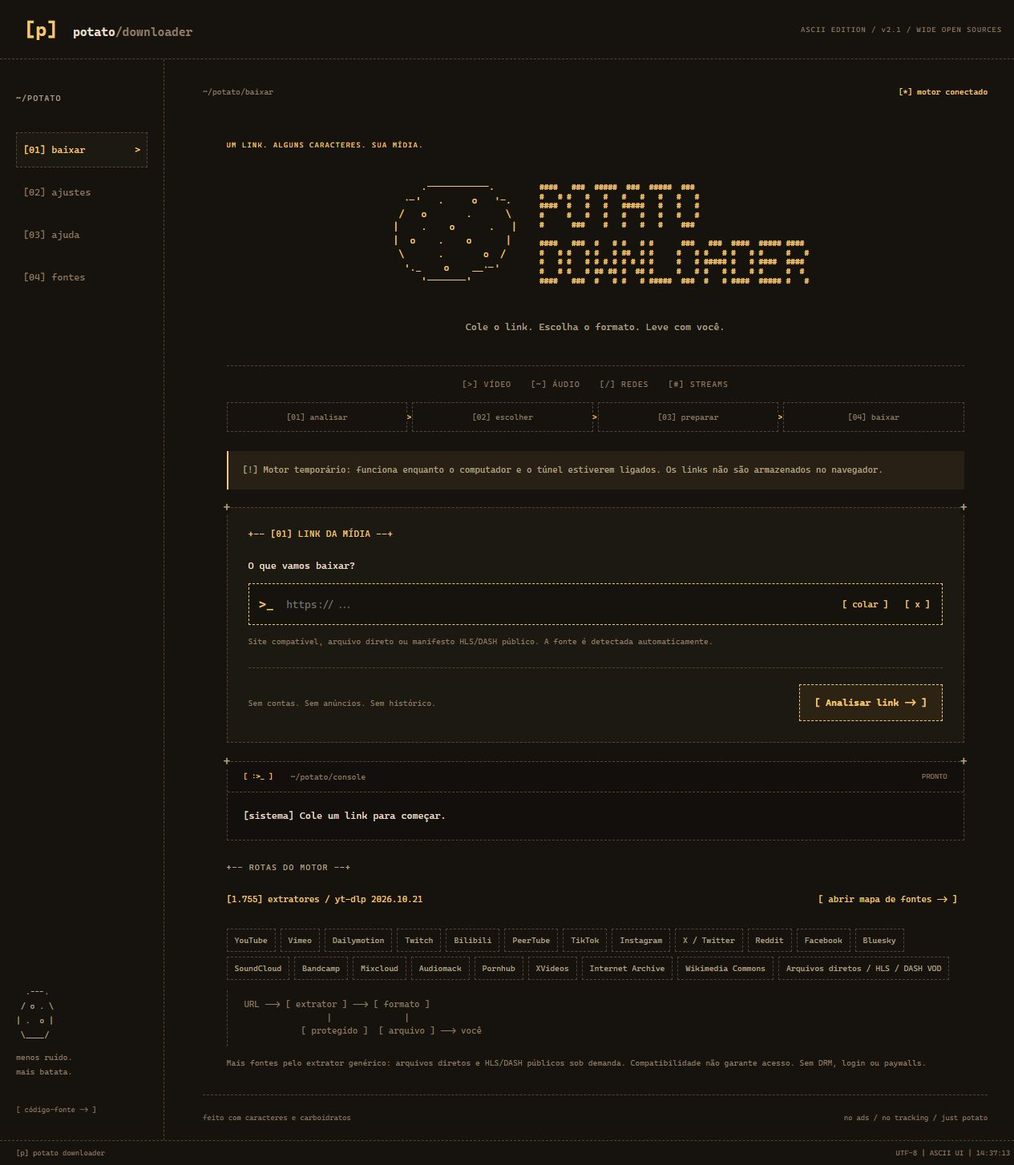
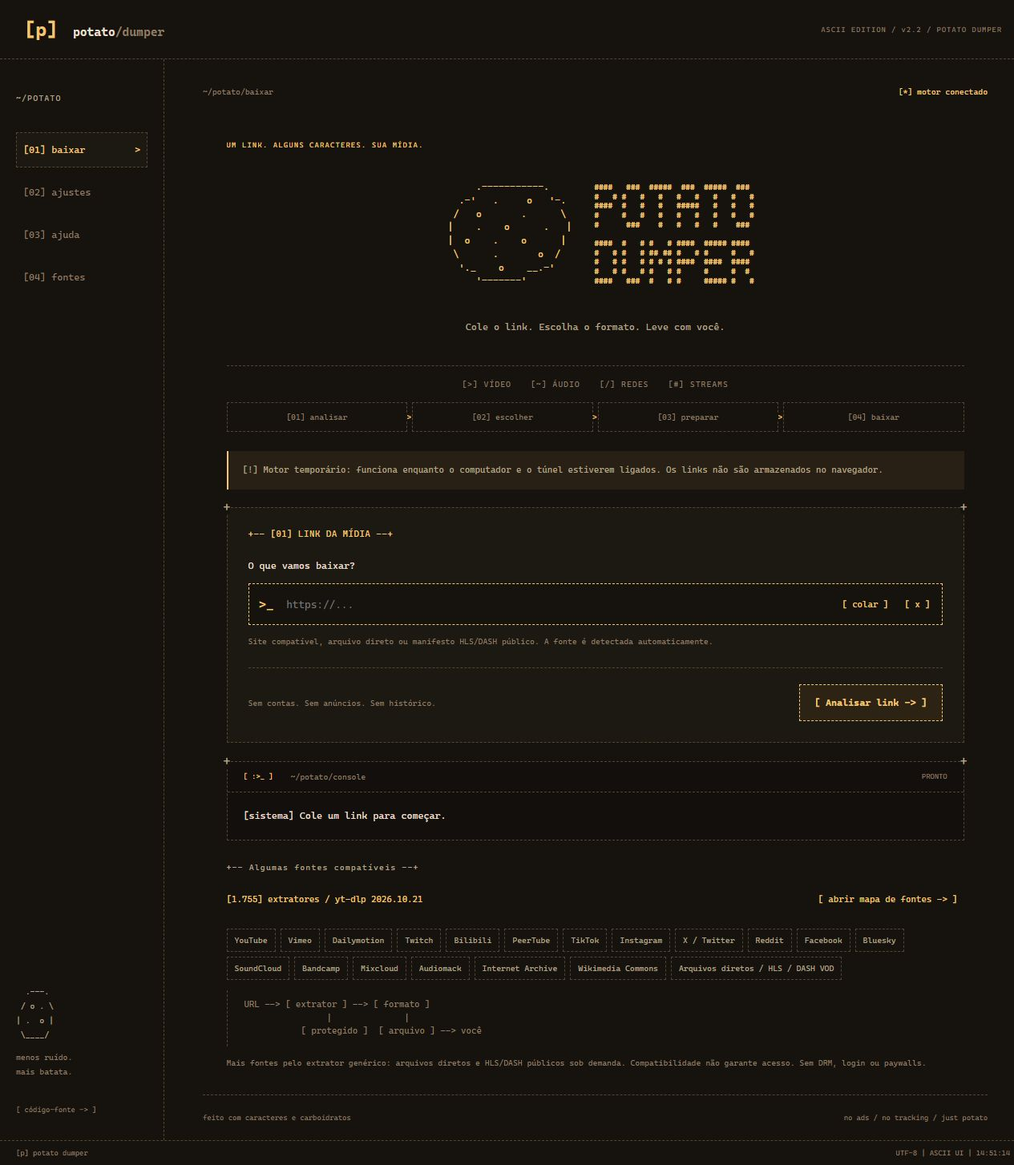
Rename product to Potato Dumper and curate public source examples without restricting extraction

diff --git a/index.html b/index.html
@@ -1,7 +1,7 @@
 <!doctype html>
-<html lang="pt-BR"><head><meta charset="UTF-8"><meta name="viewport" content="width=device-width,initial-scale=1"><meta name="theme-color" content="#16130f"><meta name="description" content="Potato Downloader. Cole o link, escolha o formato e baixe sua mídia em uma interface ASCII."><title>Potato Downloader</title><link rel="icon" href="data:,"></head><body>
+<html lang="pt-BR"><head><meta charset="UTF-8"><meta name="viewport" content="width=device-width,initial-scale=1"><meta name="theme-color" content="#16130f"><meta name="description" content="Potato Dumper. Cole o link, escolha o formato e baixe sua mídia em uma interface ASCII."><title>Potato Dumper</title><link rel="icon" href="data:,"></head><body>
 <a class="skip" href="#main">Pular para o conteúdo</a>
-<header><a class="brand" href="#baixar"><span aria-hidden="true">[p]</span> potato<span class="muted">/downloader</span></a><span class="edition">ASCII EDITION / v2.1 / WIDE OPEN SOURCES</span></header>
+<header><a class="brand" href="#baixar"><span aria-hidden="true">[p]</span> potato<span class="muted">/dumper</span></a><span class="edition">ASCII EDITION / v2.2 / POTATO DUMPER</span></header>
 <div class="layout"><aside><p class="micro">~/POTATO</p><nav aria-label="Principal"><a href="#baixar" data-page="baixar">[01] baixar <span aria-hidden="true">&gt;</span></a><a href="#ajustes" data-page="ajustes">[02] ajustes <span aria-hidden="true">&gt;</span></a><a href="#ajuda" data-page="ajuda">[03] ajuda <span aria-hidden="true">&gt;</span></a><a href="#fontes" data-page="fontes">[04] fontes <span aria-hidden="true">&gt;</span></a></nav><div class="side-note"><pre aria-hidden="true">  .---.
  / o . \
 | .  o |
@@ -14,13 +14,13 @@
   |  o    .    o      |
    \      .       o  /
     '._    o    __.-'
-       '-------'</pre><h1><span class="sr-only">Potato Downloader</span><pre id="ascii-title" aria-hidden="true"></pre><span class="compact-title" aria-hidden="true">[ POTATO ]<br>DOWNLOADER_</span></h1></div><p class="tagline">Cole o link. Escolha o formato. Leve com você.</p></div>
+       '-------'</pre><h1><span class="sr-only">Potato Dumper</span><pre id="ascii-title" aria-hidden="true"></pre><span class="compact-title" aria-hidden="true">[ POTATO ]<br>DUMPER_</span></h1></div><p class="tagline">Cole o link. Escolha o formato. Leve com você.</p></div>
 <div class="signal-rack" aria-hidden="true"><span>[&gt;] VÍDEO</span><span>[~] ÁUDIO</span><span>[/] REDES</span><span>[#] STREAMS</span></div><ol class="pipeline" id="pipeline" aria-label="Etapas do download"><li data-step="1"><span aria-hidden="true">[01]</span> analisar</li><li data-step="2"><span aria-hidden="true">[02]</span> escolher</li><li data-step="3"><span aria-hidden="true">[03]</span> preparar</li><li data-step="4"><span aria-hidden="true">[04]</span> baixar</li></ol>
 <div id="service-notice" class="notice" role="status" hidden></div>
 <section class="frame"><h2 class="frame-title">+-- [01] LINK DA MÍDIA --+</h2><form id="analyze-form" novalidate><label for="media-url">O que vamos baixar?</label><div class="url-row"><span aria-hidden="true">&gt;_</span><input id="media-url" name="url" type="url" inputmode="url" autocomplete="off" spellcheck="false" placeholder="https://..." aria-describedby="url-hint url-error"><button type="button" id="paste" class="quiet">[ colar ]</button><button type="button" id="clear" class="quiet" aria-label="Limpar link">[ x ]</button></div><p id="url-hint" class="hint">Site compatível, arquivo direto ou manifesto HLS/DASH público. A fonte é detectada automaticamente.</p><p id="url-error" class="error" role="alert" hidden></p><div class="form-bottom"><span class="hint">Sem contas. Sem anúncios. Sem histórico.</span><button class="primary" id="analyze-button" type="submit">[ Analisar link -&gt; ]</button></div></form></section>
 <section class="frame results-section" id="media-panel" aria-labelledby="media-heading" hidden><h2 class="frame-title" id="media-heading">+-- [02] ESCOLHA SEU ARQUIVO --+</h2><label for="media-item">Mídias encontradas</label><select id="media-item"></select><h3 id="media-title"></h3><p id="media-metadata" class="hint"></p><fieldset id="modes"><legend>Modo</legend><label><input type="radio" name="mode" value="auto" checked><span>[ automático ]</span></label><label><input type="radio" name="mode" value="video"><span>[ vídeo ]</span></label><label><input type="radio" name="mode" value="audio"><span>[ só áudio ]</span></label></fieldset><div class="options-grid"><label>Qualidade e formato de origem<select id="format"></select></label><label id="conversion-label">Formato de saída<select id="conversion"><option value="original">original / sem conversão</option><option value="mp3">MP3 / converter</option><option value="opus">Opus / converter</option><option value="wav">WAV / converter</option></select></label></div><p class="hint" id="size-hint"></p><p class="hint">Opções extraídas desta mídia. A origem pode mudar; links de análise expiram em 15 minutos.</p><div class="form-bottom"><button class="quiet" id="new-download">[ novo link ]</button><button class="primary" id="prepare">[ Preparar download -&gt; ]</button></div></section>
 <section class="frame console" aria-labelledby="console-title"><div class="console-head"><h2 id="console-title">~/potato/console</h2><span id="state-label">PRONTO</span></div><div class="console-body"><div id="indicator" aria-hidden="true" hidden>[ &gt;........................... ]</div><p id="status" role="status" aria-live="polite">[sistema] Cole um link para começar.</p><p id="transfer-note" class="hint" hidden></p><div class="console-actions"><button class="quiet" id="cancel" hidden>[ cancelar ]</button><a class="primary" id="save-file" hidden>[ Baixar arquivo -&gt; ]</a><button class="quiet" id="retry" hidden>[ tentar novamente ]</button></div></div></section>
-<section class="platforms"><h2 class="micro">+-- ROTAS DO MOTOR --+</h2><div class="engine-strip"><span id="engine-summary">[?] consultando catálogo instalado</span><a href="#fontes" class="quiet">[ abrir mapa de fontes -&gt; ]</a></div><p id="platform-list" class="hint">Conecte o motor para consultar a lista.</p><pre class="wire-art" aria-hidden="true">  URL --&gt; [ extrator ] --&gt; [ formato ]
+<section class="platforms"><h2 class="micro">+-- Algumas fontes compatíveis --+</h2><div class="engine-strip"><span id="engine-summary">[?] consultando catálogo instalado</span><a href="#fontes" class="quiet">[ abrir mapa de fontes -&gt; ]</a></div><p id="platform-list" class="hint">Conecte o motor para consultar a lista.</p><pre class="wire-art" aria-hidden="true">  URL --&gt; [ extrator ] --&gt; [ formato ]
                   |              |
              [ protegido ]  [ arquivo ] --&gt; você</pre><p class="hint">Mais fontes pelo extrator genérico: arquivos diretos e HLS/DASH públicos sob demanda. Compatibilidade não garante acesso. Sem DRM, login ou paywalls.</p></section></section>
 <section id="fontes" class="page secondary" hidden><p class="micro accent">[04] / EXTRACTORS.MAP</p><h1>Uma batata.<br>Muitos caminhos<span class="accent">_</span></h1><pre class="source-map" aria-hidden="true">                 .--------.
@@ -28,7 +28,7 @@
    AUDIO -------&gt;| POTATO |---&gt; [a] áudio
    SOCIAL ------&gt;|  /&gt;_   |---&gt; [#] formatos
    HTTP/HLS ---&gt; |        |---&gt; [ ] arquivo
-                 '--------'</pre><p class="intro-text">O endereço escolhe o extrator. Você escolhe o arquivo.</p><div class="notice">[i] Catálogo da ferramenta instalada, sem promessa de acesso irrestrito. “Listado” é suporte documentado; “testado” exige um download real registrado. Fontes adultas públicas podem ter extrator, mas continuam sujeitas a idade, região e bloqueios.</div><section class="frame"><h2 class="frame-title">+-- MOTOR & COBERTURA --+</h2><p id="catalog-version" class="hint">[?] aguardando conexão</p><div id="source-groups" class="source-groups"></div></section><section class="frame"><h2 class="frame-title">+-- BUSCAR EXTRATORES INSTALADOS --+</h2><label for="extractor-search">Nome do site ou extrator</label><input type="search" id="extractor-search" placeholder="Ex.: Vimeo, Bandcamp, PornHub, XVideos" autocomplete="off"><p class="hint" id="catalog-count" role="status"></p><div class="catalog-table-wrap"><table class="catalog-table"><thead><tr><th scope="col">EXTRATOR</th><th scope="col">ESTADO DO MOTOR</th></tr></thead><tbody id="extractor-rows"></tbody></table></div><button id="more-extractors" class="quiet" hidden>[ mostrar mais 80 ]</button><p id="catalog-empty" class="hint" hidden>[ ] Nenhum extrator encontrado. Uma página ainda pode funcionar com o extrator genérico; use analisar link.</p></section><section class="frame"><h2 class="frame-title">+-- DOWNLOADS REALMENTE TESTADOS --+</h2><div id="verified-sources"></div><p class="hint">Cada registro descreve somente a mídia e a versão verificadas. Não comprova todos os links de uma plataforma.</p></section><section class="frame"><h2 class="frame-title">+-- FRONTEIRAS DO TERMINAL --+</h2><ul id="catalog-limitations" class="limits-list"></ul><p class="hint">O administrador pode atualizar o motor e reiniciar o backend. A interface recarrega o catálogo sem precisar ser reescrita.</p></section></section>
+                 '--------'</pre><p class="intro-text">O endereço escolhe o extrator. Você escolhe o arquivo.</p><div class="notice">[i] Algumas fontes compatíveis, em uma seleção ilustrativa. A ausência de uma fonte nesta lista não impede o campo de URL de processá-la. “Listado” é suporte documentado; “testado” exige download real. Restrições de acesso, idade e região continuam aplicáveis.</div><section class="frame"><h2 class="frame-title">+-- Algumas fontes compatíveis --+</h2><p id="catalog-version" class="hint">[?] aguardando conexão</p><div id="source-groups" class="source-groups"></div></section><section class="frame"><h2 class="frame-title">+-- PESQUISAR ALGUNS EXTRATORES --+</h2><label for="extractor-search">Nome do site ou extrator</label><input type="search" id="extractor-search" placeholder="Ex.: Vimeo, Bandcamp, Wikimedia" autocomplete="off"><p class="hint" id="catalog-count" role="status"></p><div class="catalog-table-wrap"><table class="catalog-table"><thead><tr><th scope="col">EXTRATOR</th><th scope="col">ESTADO DO MOTOR</th></tr></thead><tbody id="extractor-rows"></tbody></table></div><button id="more-extractors" class="quiet" hidden>[ mostrar mais 80 ]</button><p id="catalog-empty" class="hint" hidden>[ ] Nenhum exemplo exibido para essa busca. A lista é parcial: tente o link no campo de URL.</p></section><section class="frame"><h2 class="frame-title">+-- DOWNLOADS REALMENTE TESTADOS --+</h2><div id="verified-sources"></div><p class="hint">Cada registro descreve somente a mídia e a versão verificadas. Não comprova todos os links de uma plataforma.</p></section><section class="frame"><h2 class="frame-title">+-- FRONTEIRAS DO TERMINAL --+</h2><ul id="catalog-limitations" class="limits-list"></ul><p class="hint">O administrador pode atualizar o motor e reiniciar o backend. A interface recarrega o catálogo sem precisar ser reescrita.</p></section></section>
 <section id="ajustes" class="page secondary" hidden><p class="micro accent">[02] / SEU TERMINAL, SUAS REGRAS</p><h1>Uma batata do seu jeito<span class="accent">_</span></h1><form class="frame" id="preferences-form"><h2 class="frame-title">+-- PREFERÊNCIAS LOCAIS --+</h2><label>Modo preferido<select id="pref-mode"><option value="auto">automático</option><option value="video">vídeo</option><option value="audio">só áudio</option></select></label><label>Limite de qualidade preferido<select id="pref-quality"><option value="max">melhor disponível</option><option value="2160">até 2160p</option><option value="1080">até 1080p</option><option value="720">até 720p</option><option value="480">até 480p</option></select></label><label>Formato de áudio preferido<select id="pref-audio"><option value="original">original</option><option value="mp3">MP3</option><option value="opus">Opus</option><option value="wav">WAV</option></select></label><label class="check"><input type="checkbox" id="pref-motion"> Reduzir animações</label><div class="form-bottom"><button type="button" id="reset" class="quiet">[ restaurar padrão ]</button><button class="primary">[ Salvar ajustes ]</button></div><p id="pref-status" class="hint" role="status">Preferências apenas neste navegador. Histórico desativado.</p></form><section class="frame"><h2 class="frame-title">+-- CONEXÃO --+</h2><p id="backend-description" class="hint"></p><p class="hint">O motor precisa estar ligado para analisar e preparar arquivos. Um endereço temporário deixa de funcionar quando o computador ou túnel é desligado.</p><button id="reconnect" class="quiet">[ verificar conexão ]</button></section></section>
 <section id="ajuda" class="page secondary" hidden><p class="micro accent">[03] / LEIA-ME.TXT</p><h1>Poucos passos.<br>Zero mistério<span class="accent">.</span></h1><div class="help-grid"><section class="frame"><h2 class="frame-title">+-- COMO USAR --+</h2><ol><li>Cole um link público e analise.</li><li>Escolha a mídia e um formato disponível.</li><li>Prepare e clique em baixar arquivo.</li></ol><p class="hint">Quando o navegador assume a transferência, o Potato informa “Download iniciado”. Não há confirmação de gravação no seu disco.</p></section><section class="frame"><h2 class="frame-title">+-- LIMITES --+</h2><p>Até 100 MiB, 20 minutos e 8 itens por análise. Dois trabalhos simultâneos nesta instância.</p><p class="hint">A conversão pode aumentar o arquivo. Conteúdo privado, ao vivo, DRM e playlists extensas não são aceitos. Nem todo post com fotos tem extrator compatível.</p></section><section class="frame"><h2 class="frame-title">+-- PRIVACIDADE --+</h2><p>Sem analytics, anúncios, contas ou histórico de links. Apenas preferências ficam no navegador.</p><p class="hint">O servidor recebe o link e mantém metadados e arquivos temporários por até 15 minutos. Arquivos são transmitidos por streaming. Hospedagem e plataforma de origem podem ter registros próprios.</p></section><section class="frame"><h2 class="frame-title">+-- PROJETO & CRÉDITOS --+</h2><p>Interface e servidor originais, inspirados na praticidade de baixar por link. O Potato não usa API ou código do Cobalt.</p><p class="hint">Motor: <a href="https://github.com/yt-dlp/yt-dlp" target="_blank" rel="noreferrer">yt-dlp (Unlicense)</a> e <a href="https://ffmpeg.org/legal.html" target="_blank" rel="noreferrer">ffmpeg (licença da distribuição)</a>. Baixe apenas mídia que você criou ou tem permissão para salvar.</p></section></div><a href="https://github.com/Harleyzinn/potato-downloader" class="quiet" target="_blank" rel="noreferrer">[ código, instalação e licenças -&gt; ]</a></section>
-<footer><span>feito com caracteres e carboidratos</span><span>no ads / no tracking / just potato</span></footer></main></div><div class="statusbar"><span>[p] potato downloader</span><span>UTF-8 | ASCII UI | <span id="clock">--:--</span></span></div><script type="module" src="/src/main.ts"></script></body></html>
+<footer><span>feito com caracteres e carboidratos</span><span>no ads / no tracking / just potato</span></footer></main></div><div class="statusbar"><span>[p] potato dumper</span><span>UTF-8 | ASCII UI | <span id="clock">--:--</span></span></div><script type="module" src="/src/main.ts"></script></body></html>

diff --git a/src/main.ts b/src/main.ts
@@ -4,6 +4,7 @@ import {element as $,asciiTitle,bytes,duration,progressBar} from './components.t
 import {apiBase,analyze,getHealth,getJob,request,validateURL} from './service.ts';
 import {defaults,loadPreferences,savePreferences} from './preferences.ts';
 import {refreshCatalog} from './catalog.ts';
+import {isPublicExample} from './presentation.ts';
 
 let prefs=loadPreferences(),analysis:Analysis|undefined,abort:AbortController|undefined,jobId:string|undefined;
 let busy=false,poll:ReturnType<typeof setTimeout>|undefined,generation=0;
@@ -18,7 +19,7 @@ function state(label:string,message:string,options:{error?:boolean;progress?:num
 }
 function lock(value:boolean){busy=value;$<HTMLButtonElement>('#analyze-button').disabled=value;$<HTMLButtonElement>('#prepare').disabled=value;input.disabled=value;$<HTMLButtonElement>('#paste').disabled=value;$<HTMLButtonElement>('#clear').disabled=value;$('#media-panel').inert=value;$('#cancel').hidden=!value;}
 function resetResults(){analysis=undefined;$('#media-panel').hidden=true;$('#save-file').hidden=true;$('#transfer-note').hidden=true;$('#retry').hidden=true;}
-function navigate(){const page=['baixar','ajustes','ajuda','fontes'].includes(location.hash.slice(1))?location.hash.slice(1):'baixar';document.querySelectorAll<HTMLElement>('.page').forEach(node=>node.hidden=node.id!==page);document.querySelectorAll<HTMLAnchorElement>('[data-page]').forEach(node=>{if(node.dataset.page===page)node.setAttribute('aria-current','page');else node.removeAttribute('aria-current');});$('#breadcrumb').textContent=`~/potato/${page}`;document.title=`Potato Downloader / ${page}`;}
+function navigate(){const page=['baixar','ajustes','ajuda','fontes'].includes(location.hash.slice(1))?location.hash.slice(1):'baixar';document.querySelectorAll<HTMLElement>('.page').forEach(node=>node.hidden=node.id!==page);document.querySelectorAll<HTMLAnchorElement>('[data-page]').forEach(node=>{if(node.dataset.page===page)node.setAttribute('aria-current','page');else node.removeAttribute('aria-current');});$('#breadcrumb').textContent=`~/potato/${page}`;document.title=`Potato Dumper / ${page}`;}
 window.addEventListener('hashchange',navigate);navigate();
 function preferenceUI(){
   $<HTMLSelectElement>('#pref-mode').value=prefs.mode;$<HTMLSelectElement>('#pref-quality').value=prefs.quality;$<HTMLSelectElement>('#pref-audio').value=prefs.audioFormat;$<HTMLInputElement>('#pref-motion').checked=prefs.reducedMotion;document.body.classList.toggle('no-motion',prefs.reducedMotion);
@@ -32,7 +33,7 @@ async function health(){
   try{
     const data=await getHealth();if(!data.online)throw new Error('O serviço respondeu, mas yt-dlp ou ffmpeg não está disponível.');
     $('#health-button').textContent='[*] motor conectado';$('#platform-list').replaceChildren();
-    for(const name of data.platforms){const span=document.createElement('span');span.className='chip';span.textContent=name;$('#platform-list').append(span);}
+    for(const name of data.platforms.filter(isPublicExample)){const span=document.createElement('span');span.className='chip';span.textContent=name;$('#platform-list').append(span);}
     void refreshCatalog();
     $('#service-notice').hidden=!data.temporary;
     $('#service-notice').textContent='[!] Motor temporário: funciona enquanto o computador e o túnel estiverem ligados. Os links não são armazenados no navegador.';

diff --git a/src/catalog.ts b/src/catalog.ts
@@ -1,6 +1,7 @@
 import type {Compatibility} from './types.ts';
 import {element as $} from './components.ts';
 import {request} from './service.ts';
+import {isPublicExample} from './presentation.ts';
 let data:Compatibility|undefined,visible=24;
 export async function refreshCatalog(){
   try{
@@ -10,7 +11,7 @@ export async function refreshCatalog(){
     $('#engine-summary').textContent=`[${data.extractors.length.toLocaleString('pt-BR')}] extratores / yt-dlp ${data.version}`;
     $('#source-groups').replaceChildren();
     const labels={video:'[>]',social:'[/]',audio:'[~]',adult:'[18+]',direct:'[#]'};
-    for(const group of data.groups){
+    for(const group of data.groups.filter(group=>isPublicExample(group.name))){
       const box=document.createElement('div');box.className='source-group';
       const title=document.createElement('h3');title.textContent=`${labels[group.category]} ${group.name}`;
       const status=document.createElement('p');status.textContent=group.installed?'[+] extrator listado':'[-] ausente ou quebrado';status.className=group.installed?'hint':'error';box.append(title,status);$('#source-groups').append(box);
@@ -29,12 +30,12 @@ export async function refreshCatalog(){
 }
 function renderExtractors(){
   if(!data)return;const query=$<HTMLInputElement>('#extractor-search').value.trim().toLocaleLowerCase();
-  const matches=data.extractors.filter(item=>item.name.toLocaleLowerCase().includes(query));
+  const matches=data.extractors.filter(item=>isPublicExample(item.name)&&item.name.toLocaleLowerCase().includes(query));
   $('#extractor-rows').replaceChildren(...matches.slice(0,visible).map(item=>{
     const row=document.createElement('tr'),name=document.createElement('th'),status=document.createElement('td');
     name.scope='row';name.textContent=item.name;status.textContent=item.broken?'[!] QUEBRADO':'[+] LISTADO';status.className=item.broken?'error':'accent';row.append(name,status);return row;
   }));
-  $('#catalog-count').textContent=`[${Math.min(visible,matches.length)}/${matches.length}] resultados / [+] listado não significa testado`;
+  $('#catalog-count').textContent=`[${Math.min(visible,matches.length)}/${matches.length}] exemplos exibíveis / [+] listado não significa testado`;
   $('#catalog-empty').hidden=matches.length>0;$('#more-extractors').hidden=matches.length<=visible;
 }
 $('#extractor-search').addEventListener('input',()=>{visible=24;renderExtractors();});

diff --git a/test/core.test.ts b/test/core.test.ts
@@ -8,6 +8,7 @@ import net from 'node:net';
 import http from 'node:http';
 import {parseExtractors,groupSources} from '../backend/catalog.ts';
 import {readPublicPrefix} from '../backend/probe.ts';
+import {isPublicExample} from '../src/presentation.ts';
 
 test('blocks private, reserved and mapped IPv4/IPv6 destinations',()=>{
   for(const value of ['127.0.0.1','10.0.0.1','169.254.169.254','172.16.0.1','192.168.0.1','100.64.0.1','0.0.0.0','224.0.0.1','::1','::ffff:127.0.0.1','fe80::1','fc00::1','2001:db8::1'])assert.equal(isPublicIP(value),false,value);
@@ -25,9 +26,18 @@ test('catalog distinguishes installed, broken and verified instead of assuming s
   const extractors=parseExtractors('youtube\nPornHub\nXVideos (CURRENTLY BROKEN)\ngeneric\n');
   assert.equal(extractors.length,4);assert.equal(extractors[2].broken,true);
   const groups=groupSources(extractors);
-  assert.equal(groups.find(x=>x.name==='Pornhub')?.installed,true);
-  assert.equal(groups.find(x=>x.name==='XVideos')?.installed,false);
+  assert.ok(!groups.some(x=>/pornhub|xvideos/i.test(x.name)));
+  assert.ok(extractors.some(x=>x.name==='PornHub'));
   assert.equal(groups.find(x=>x.category==='direct')?.installed,true);
+});
+
+test('public examples do not restrict the generic URL boundary or the raw inventory',()=>{
+  for(const name of ['PornHub','PornHubPlaylist','XVideos','xvideos:quickies'])assert.equal(isPublicExample(name),false);
+  for(const name of ['YouTube','Vimeo','Bandcamp','Wikimedia Commons'])assert.equal(isPublicExample(name),true);
+  // Syntax-only validation: no network request or platform download is made here.
+  for(const host of ['www.pornhub.com','www.xvideos.com','media.public-source.org'])assert.equal(validateSource(`https://${host}/`).hostname,host);
+  const raw=parseExtractors('PornHub\nXVideos\ngeneric\n');assert.equal(raw.length,3);
+  assert.equal(raw.filter(x=>isPublicExample(x.name)).length,1);
 });
 
 test('bounded direct-file probe rejects local and credential URLs before opening a socket',async()=>{

diff --git a/src/components.ts b/src/components.ts
@@ -1,5 +1,5 @@
-const glyphs:Record<string,string[]>={P:['#### ','#   #','#### ','#    ','#    '],O:[' ### ','#   #','#   #','#   #',' ### '],T:['#####','  #  ','  #  ','  #  ','  #  '],A:[' ### ','#   #','#####','#   #','#   #'],D:['#### ','#   #','#   #','#   #','#### '],W:['#   #','#   #','# # #','## ##','#   #'],N:['#   #','##  #','# # #','#  ##','#   #'],L:['#    ','#    ','#    ','#    ','#####'],E:['#####','#    ','#### ','#    ','#####'],R:['#### ','#   #','#### ','#  # ','#   #']};
-export function asciiTitle():string{return ['POTATO','DOWNLOADER'].map(word=>Array.from({length:5},(_,row)=>[...word].map(c=>glyphs[c][row]).join(' ')).join('\n')).join('\n\n');}
+const glyphs:Record<string,string[]>={P:['#### ','#   #','#### ','#    ','#    '],O:[' ### ','#   #','#   #','#   #',' ### '],T:['#####','  #  ','  #  ','  #  ','  #  '],A:[' ### ','#   #','#####','#   #','#   #'],D:['#### ','#   #','#   #','#   #','#### '],U:['#   #','#   #','#   #','#   #',' ### '],M:['#   #','## ##','# # #','#   #','#   #'],W:['#   #','#   #','# # #','## ##','#   #'],N:['#   #','##  #','# # #','#  ##','#   #'],L:['#    ','#    ','#    ','#    ','#####'],E:['#####','#    ','#### ','#    ','#####'],R:['#### ','#   #','#### ','#  # ','#   #']};
+export function asciiTitle():string{return ['POTATO','DUMPER'].map(word=>Array.from({length:5},(_,row)=>[...word].map(c=>glyphs[c][row]).join(' ')).join('\n')).join('\n\n');}
 export function element<T extends HTMLElement=HTMLElement>(selector:string):T{const node=document.querySelector<T>(selector);if(!node)throw new Error(`Missing ${selector}`);return node;}
 export function bytes(value:number):string{return `${(value/1024/1024).toLocaleString('pt-BR',{maximumFractionDigits:1})} MiB`;}
 export function duration(value:number):string{return `${Math.floor(value/60)}:${String(Math.floor(value%60)).padStart(2,'0')}`;}

diff --git a/backend/probe.ts b/backend/probe.ts
@@ -19,7 +19,7 @@ export async function readPublicPrefix(value:string,signal:AbortSignal,redirects
   const result=await new Promise<Buffer|string>((done,fail)=>{
     let complete=false;
     const finish=(data:Buffer|string)=>{if(complete)return;complete=true;done(data);};
-    const request=(url.protocol==='https:'?https.request:http.request)({hostname:dest.address,port:url.protocol==='https:'?443:80,servername:url.hostname,method:'GET',path:url.pathname+url.search,headers:{Host:url.host,Range:`bytes=0-${maximum-1}`,'User-Agent':'PotatoDownloader/2.1'},signal:limited},response=>{
+    const request=(url.protocol==='https:'?https.request:http.request)({hostname:dest.address,port:url.protocol==='https:'?443:80,servername:url.hostname,method:'GET',path:url.pathname+url.search,headers:{Host:url.host,Range:`bytes=0-${maximum-1}`,'User-Agent':'PotatoDumper/2.2'},signal:limited},response=>{
       if([301,302,303,307,308].includes(response.statusCode||0)){
         const location=response.headers.location;response.destroy();if(!location)return fail(new Error('Redirecionamento inválido.'));return finish(new URL(location,url).href);
       }

diff --git a/backend/engine.ts b/backend/engine.ts
@@ -28,7 +28,7 @@ export function mediaOptions(raw:RawMedia,id:string):Media {
     if(f.acodec && f.acodec!=='none')formats.push({id:`a:${f.format_id}`,mode:'audio',label:`Áudio de ${f.ext||'original'}${f.abr ? ` / ${Math.round(f.abr)} kbps` : ''}`,ext:f.ext||'m4a',size,estimated:!f.filesize});
   }
   if(!formats.length)throw new Error('Nenhum formato público compatível. A mídia pode estar restrita.');
-  return {id,title:String(raw.title || 'Potato download').slice(0,250),author:raw.uploader||raw.creator,duration:raw.duration,source:String(raw.extractor_key||raw.extractor||'generic').slice(0,100),formats:formats.reverse().slice(0,100)};
+  return {id,title:String(raw.title || 'Potato Dumper').slice(0,250),author:raw.uploader||raw.creator,duration:raw.duration,source:String(raw.extractor_key||raw.extractor||'generic').slice(0,100),formats:formats.reverse().slice(0,100)};
 }
 export function publicError(text:string):string {
   if(/Transmissões ao vivo/.test(text))return 'Este motor aceita streams sob demanda (VOD), mas não grava transmissões ao vivo.';

diff --git a/backend/catalog.ts b/backend/catalog.ts
@@ -23,8 +23,6 @@ const definitions:Omit<SourceGroup,'installed'>[]=[
   {name:'Bandcamp',category:'audio',prefixes:['bandcamp']},
   {name:'Mixcloud',category:'audio',prefixes:['mixcloud']},
   {name:'Audiomack',category:'audio',prefixes:['audiomack']},
-  {name:'Pornhub',category:'adult',prefixes:['pornhub']},
-  {name:'XVideos',category:'adult',prefixes:['xvideos']},
   {name:'Internet Archive',category:'video',prefixes:['archive.org']},
   {name:'Wikimedia Commons',category:'video',prefixes:['wikimedia.org']},
   {name:'Arquivos diretos / HLS / DASH VOD',category:'direct',prefixes:['generic']},

diff --git a/src/presentation.ts b/src/presentation.ts
@@ -1,0 +1,2 @@
+/** Public examples are editorial only. Never import this into URL validation or extraction. */
+export function isPublicExample(name:string):boolean{return !/^(pornhub|xvideos)/i.test(name.trim());}

diff --git a/README.md b/README.md
@@ -1,11 +1,11 @@
-# [p] Potato Downloader
+# [p] Potato Dumper
 
 Downloader de mídia com identidade própria em ASCII. Frontend em português, tons de batata, análise real de formatos e preparação de arquivos com **yt-dlp + ffmpeg**. Não usa API, instância nem código do Cobalt.
 
 - **Frontend:** https://harleyzinn.github.io/potato-downloader/
 - **Código:** https://github.com/Harleyzinn/potato-downloader
 
-![Interface ASCII do Potato Downloader publicada no GitHub Pages](docs/interface.png)
+![Interface ASCII do Potato Dumper publicada no GitHub Pages](docs/interface.png)
 
 ## Estado da instalação
 
@@ -130,7 +130,9 @@ O backend permite a origem exata `https://harleyzinn.github.io` (a origem não i
 
 A lista fixa de nove domínios foi substituída pela descoberta do **yt-dlp instalado**. O endpoint `/api/compatibility` consulta `--list-extractors` e `--version` ao iniciar o backend. Nesta instalação: **1.755 extratores**, dos quais **136** se declaram `CURRENTLY BROKEN`. Isso é uma contagem de extratores, não de sites funcionando.
 
-A tela ASCII **[04] fontes** tem pesquisa, grupos de vídeo/redes/áudio/adultos, indicação de extratores quebrados e um registro separado de downloads reais. Inclui YouTube, Vimeo, Dailymotion, Twitch, Bilibili, PeerTube, TikTok, Instagram, X, Reddit, Facebook, Bluesky, SoundCloud, Bandcamp, Mixcloud, Audiomack, Pornhub, XVideos e muitos outros que constam do inventário instalado. Pornhub e XVideos estão **listados, mas não foram testados com download real**; autenticação, verificação de idade, região e bloqueios podem impedir o uso. Nenhuma senha ou cookie de conta é solicitado, importado ou salvo.
+A tela ASCII **[04] fontes** apresenta **Algumas fontes compatíveis**: uma seleção ilustrativa de vídeo, redes sociais e áudio, com pesquisa, indicação de extratores quebrados e registros separados de downloads reais. Exemplos: YouTube, Vimeo, Dailymotion, Twitch, Bilibili, PeerTube, TikTok, Instagram, X, Reddit, Facebook, Bluesky, SoundCloud, Bandcamp, Mixcloud, Audiomack e Wikimedia Commons. A lista visual não é completa nem funciona como allowlist. O campo de URL permanece genérico.
+
+Alguns nomes foram retirados apenas da seleção e pesquisa visuais e dos exemplos promocionais. Isso não remove seus extratores do executável nem os bloqueia na validação do servidor. O inventário técnico da API continua completo, enquanto `src/presentation.ts` controla somente a exibição. Os totais informam o inventário instalado, não a quantidade de exemplos exibidos. Restrições de acesso, idade, região, DRM e ausência de formatos ainda podem impedir o uso. Não há importação de senhas ou cookies de contas; a alteração visual não constitui um novo teste de nenhuma fonte.
 
 Páginas genéricas, **arquivos HTTP/HTTPS diretos**, **HLS (`.m3u8`) e DASH (`.mpd`) sob demanda** são aceitos quando o extrator genérico e o downloader nativo encontram formatos compatíveis. Não é preciso editar uma lista de domínios para cada nova fonte. Não há suporte a `file://`, RTMP/RTSP, DRM ou gravação ao vivo. Galerias mostram até oito entradas com formatos válidos; fotos ou entradas sem formatos não são inventadas. Uma galeria pode retornar apenas os itens compatíveis.
 
@@ -156,6 +158,22 @@ docker compose up -d
 ```
 
 O argumento de build mantém a versão reproduzível; não usa atualizações silenciosas em cada requisição. As opções usadas são documentadas no [README oficial](https://github.com/yt-dlp/yt-dlp#usage-and-options). A configuração local e os diretórios de plugins são ignorados; não são ativados `.netrc`, login, cookies de navegador, falsificação de região ou download de componentes remotos.
+
+## Escolha do mecanismo (revisão em 24/10/2026)
+
+**Decisão: manter yt-dlp + FFmpeg.** A solução atual já usa esse motor; não é um terceiro extrator concorrente. Foram consultadas a [tabela oficial de serviços do Cobalt](https://github.com/imputnet/cobalt/blob/main/api/README.md#supported-services), sua [API](https://github.com/imputnet/cobalt/blob/main/docs/api.md) e [instalação própria](https://github.com/imputnet/cobalt/blob/main/docs/run-an-instance.md), além do [manual](https://github.com/yt-dlp/yt-dlp#readme) e da [lista com ressalvas do yt-dlp](https://github.com/yt-dlp/yt-dlp/blob/master/supportedsites.md).
+
+| Critério | Cobalt documentado | yt-dlp e implementação atual |
+|---|---|---|
+| Variedade útil | Serviços explicitamente integrados, incluindo redes sociais, vídeo e SoundCloud. | Extratores específicos e genérico; no Potato já foram verificados arquivos diretos e manifests HLS/DASH VOD. |
+| Recursos | Vídeo/áudio, modos, qualidade, formatos e seleção múltipla; vantagens documentadas em fotos e slideshows de algumas redes. | Seleção de formatos reais, extração/conversão de áudio e remux com FFmpeg; a UI atual não promete galerias de fotos universais. |
+| Confiabilidade | A documentação aponta limitações por serviço, como áudio no Vimeo apenas via DASH e possíveis falhas no X. Não foi executado um comparativo local com Cobalt. | A lista oficial também não garante funcionamento. Mantemos versão, extratores quebrados e escopo dos testes reais separados. |
+| Manutenção | Outra API, atualizações, configuração e proteção da instância. | Atualização do executável/pacote e reinício do motor; catálogo dinâmico, sem reescrever a interface. |
+| Hospedagem | Docker Compose recomendado, backend com processamento e URL do túnel; uso de API hospedada depende de autorização. | Node, yt-dlp/Python ou executável e FFmpeg. O backend atual já funciona com esses requisitos; Pages hospeda somente o frontend. |
+
+A escolha considera os fluxos verificados e a operação disponível, **não só a contagem de extratores**. Não há evidência obtida nesta revisão de que trocar o motor melhore os downloads já funcionais. Combinar Cobalt agora acrescentaria um segundo serviço, contratos de resposta, proteção e manutenção, sem ganho comprovado por um caso concreto de regressão. As vantagens documentadas de Cobalt para certas galerias não são apresentadas como implementadas ou testadas no Potato. Uma combinação futura deve começar por uma mídia autorizada que falhe no motor atual e funcione na alternativa, preservando as mesmas proteções de rede.
+
+Nenhuma API pública do Cobalt foi usada e nenhuma nova alegação de plataforma testada foi adicionada nesta revisão. Os endereços `Harleyzinn/potato-downloader` e `/potato-downloader/` permanecem por compatibilidade, embora produto, pacote npm e logo agora se chamem **Potato Dumper**. A chave de preferências e a pasta temporária técnica existentes são mantidas para preservar preferências e limpeza de arquivos antigos.
 
 ## Segurança e privacidade
 

diff --git a/VERIFICATION.md b/VERIFICATION.md
@@ -2,6 +2,16 @@
 
 Data: 24/10/2026, America/Sao_Paulo.
 
+## Identidade e seleção pública v2.2
+
+- Nome implementado: Potato Dumper, incluindo título/descrição da página, marca textual, logo ASCII desktop, versão compacta, rodapé, pacote npm e documentação.
+- Repositório `Harleyzinn/potato-downloader`, caminho base `/potato-downloader/`, chaves de preferências e configuração Pages preservados. A mudança de nome não renomeia URLs.
+- A seleção pública passa a se chamar “Algumas fontes compatíveis”. Dois nomes e suas variantes foram retirados de exemplos, cartões e pesquisa visual, sem modificar o executável ou as regras de URL.
+- A API técnica mantém 1.755 entradas, incluindo os extratores omitidos visualmente. Os testes de aceitação dos hostnames ocultos validam apenas a sintaxe e ausência de uma allowlist, sem acessar esses sites ou alegar downloads verificados.
+- `backend/security.ts`, os argumentos de extração, o caminho base e o workflow permanecem inalterados nesta revisão. A única alteração no catálogo do backend remove exemplos públicos; a filtragem do frontend não participa da extração.
+- Dez testes automatizados, lint, tipos e build aprovados localmente. Interface conferida em 390 px sem overflow horizontal; pesquisa visual por ambos os nomes retorna uma mensagem de lista parcial, não de bloqueio.
+- A comparação documental Cobalt/yt-dlp está no README. Não foi executado benchmark com Cobalt nem registrada uma nova plataforma como testada. Mantido yt-dlp + FFmpeg para preservar os fluxos reais anteriores e evitar um segundo backend sem ganho comprovado.
+
 - Instalação limpa com `npm ci`: aprovada. npm audit retornou zero vulnerabilidades na instalação.
 - ESLint, TypeScript, seis testes isolados e build de produção: aprovados localmente e no GitHub Actions.
 - Primeira implantação oficial no Pages: workflow `40114733134`, jobs `check-build` e `deploy` aprovados.
